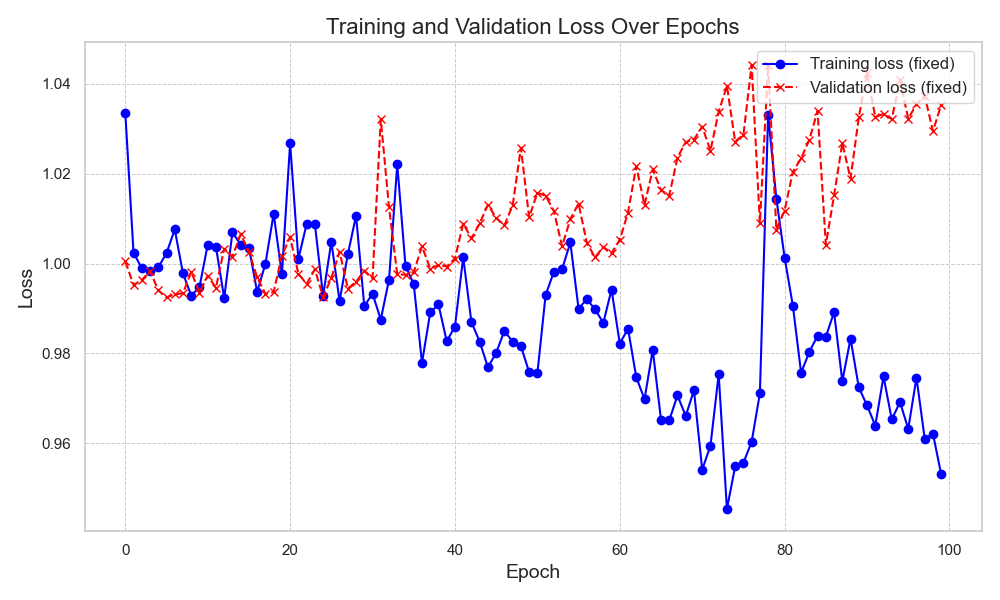
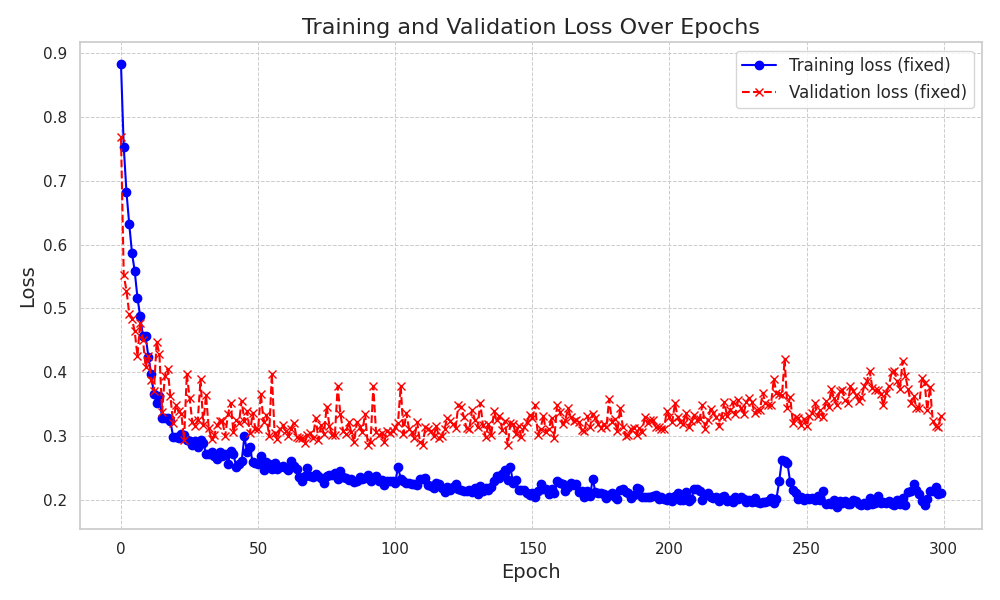
Changes

Changed region(s): [[0.0, 0.06, 0.992, 0.96], [0.279, 0.03, 0.775, 0.09]]

diff --git a/main.py b/main.py
@@ -14,7 +14,7 @@ from utils.test_utils import *
 import argparse
 
 
-def env_train(training_data_path, model_name, epochs, num_features, input_size, hidden_size, LR, batch_size):
+def env_train(training_data_path, model_name, epochs, num_features, input_size, hidden_size, LR, batch_size, save_path):
     with open(training_data_path, 'rb') as pkl_file:
         train_batch_data = pickle.load(pkl_file)
 
@@ -57,24 +57,24 @@ def env_train(training_data_path, model_name, epochs, num_features, input_size, 
 
         train(epochs=epochs, model=model_fixed, model_name=model_name, train_loader=train_loader, val_loader=val_loader,
               loss_func=loss_func,
-              optimizer=optimizer_fixed, device=device, num_features=num_features)
+              optimizer=optimizer_fixed, device=device, num_features=num_features, save_path=save_path)
     elif model_name == 'dw':
         train(epochs=epochs, model=model_dynamic, model_name=model_name, train_loader=train_loader,
               val_loader=val_loader,
               loss_func=loss_func,
-              optimizer=optimizer_dynamic, device=device, num_features=num_features)
+              optimizer=optimizer_dynamic, device=device, num_features=num_features,save_path=save_path)
     else:
         train(epochs=epochs, model=model_dwa, model_name=model_name, train_loader=train_loader,
               val_loader=val_loader,
               loss_func=loss_func,
-              optimizer=optimizer_dwa, device=device, num_features=num_features)
+              optimizer=optimizer_dwa, device=device, num_features=num_features,save_path=save_path)
 
 
 def dqn_train(memory_capacity, TRARGE_REPLACE_INTER, dqn_batch_size,
               n_states, n_actions, dqn_lr, device, epsilon, epsilon_min,
-              epsilon_decay, gamma, save_img_path):
+              epsilon_decay, gamma, save_img_path, epochs):
     # 设置随机种子
-    seed = 15
+    seed = 114
     random.seed(seed)
     np.random.seed(seed)
     torch.manual_seed(seed)
@@ -127,6 +127,7 @@ if __name__ == '__main__':
     model_path = conf.model_path
     training_data_path = conf.training_data_path
     save_test_path = conf.save_test_path
+    save_path = conf.save_path
     # env_train(training_data_path=training_data_path, model_name=model_name, epochs=epochs, num_features=num_features, input_size=input_size, hidden_size=hidden_size, LR=LR, batch_size=batch_size)
 
     # ----------------------------------------------------------------------------------------
@@ -153,11 +154,10 @@ if __name__ == '__main__':
     data_path = conf.data_path
     save_img_path = conf.save_img_path
 
-    simulator = conf.simulator
-
+    simulator_model = conf.simulator_model
 
     # 创建 ArgumentParser 对象
-    parser = argparse.ArgumentParser(description='这是一个示例程序，用于展示如何接收命令行参数。')
+    parser = argparse.ArgumentParser(description='接收命令行参数。')
 
     # 添加参数
     parser.add_argument('--w', type=str, help='输入训练类型', default='env')
@@ -167,6 +167,7 @@ if __name__ == '__main__':
     # 解析命令行参数
     args = parser.parse_args()
     model_name = args.m
+    model_path = f'{save_path}/{model_name}_best.pth'
 
     if args.w == "env":
         if args.t == "train":
@@ -174,16 +175,17 @@ if __name__ == '__main__':
             print('-------------------------------------------------------------------------------------')
             env_train(training_data_path=training_data_path, model_name=model_name, epochs=epochs,
                       num_features=num_features, input_size=input_size, hidden_size=hidden_size,
-                      LR=LR, batch_size=batch_size)
+                      LR=LR, batch_size=batch_size, save_path=save_path)
         else:
             print('开始测试环境模拟器')
             test_model(test_data_path=test_data_path, model_path=model_path, num_features=num_features,
                        save_test_path=save_test_path)
     else:
         print('开始训练DQN')
+        simulator = torch.load(simulator_model, map_location=torch.device('cpu'))
         dqn_train(memory_capacity=memory_capacity, TRARGE_REPLACE_INTER=TRARGE_REPLACE_INTER,
                   dqn_batch_size=dqn_batch_size, n_states=n_states, n_actions=n_actions,
-                  dqn_lr=dqn_lr, device=device, epsilon=epsilon, epsilon_min=epsilon_min,
-                  epsilon_decay=epsilon_decay, gamma=gamma, save_img_path=save_img_path)
+                  epochs=dqn_epochs,dqn_lr=dqn_lr, device=device, epsilon=epsilon, 
+                  epsilon_min=epsilon_min,epsilon_decay=epsilon_decay, gamma=gamma, save_img_path=save_img_path)
 
 

diff --git a/utils/train_utils.py b/utils/train_utils.py
@@ -7,13 +7,13 @@ from datetime import datetime
 from utils.mkdir_utils import *
 
 
-def train(epochs, model, train_loader, val_loader, loss_func, optimizer, model_name, num_features, device):
+
+def train(epochs, model, train_loader, val_loader, loss_func, optimizer, model_name, num_features, device, save_path):
     model.to(device)
     train_loss_record = []
     val_loss_record = []
     h_state = None
     best_val_loss = float('inf')
-
     for epoch in range(epochs):
         model.train()
         epoch_loss = 0
@@ -83,10 +83,8 @@ def train(epochs, model, train_loader, val_loader, loss_func, optimizer, model_n
 
         if val_epoch_loss < best_val_loss:
             best_val_loss = val_epoch_loss
-            torch.save(model, f'result/models/{model_name}_best.pth')
+            torch.save(model, f'{save_path}/{model_name}_best.pth')
             print(f"Saved best {model_name} model with validation loss: {best_val_loss}")
-
-    torch.save(model, f'result/models/{model_name}_{epochs}.pth')
 
     plot(train_loss_record, val_loss_record, model_name)
 
@@ -106,7 +104,7 @@ def plot(train_loss_record, val_loss_record, model_name):
     plt.grid(True, which='both', linestyle='--', linewidth=0.7)  # 添加网格线
     plt.tight_layout()  # 自动调整子图参数，使之填充整个图像区域
 
-    plt.savefig(f'./result/img/loss_{model_name}.png')
+    plt.savefig(f'./result/img/loss_{model_name}_{get_time()}.png')
     plt.show()
     print('保存成功')
 
@@ -114,7 +112,7 @@ def plot(train_loss_record, val_loss_record, model_name):
 def load_and_preprocess_data(data_path, num_features):
     data = pd.read_csv(data_path)
     # init = data.groupby("顾客ID").first().reset_index()
-    init = data.groupby("编号").first().reset_index()
+    init = data.groupby("ID").first().reset_index()
     data_array = data.values
     data_mean = data_array.mean(axis=0)
     data_std = data_array.std(axis=0)
@@ -174,7 +172,7 @@ def train_model(dqn, simulator, init_bundle, action_mean, action_std, reward_mea
 
             s = s_
 
-        ave_ep_score = ep_score.mean().item() / 10
+        ave_ep_score = ep_score.mean().item() / 30
         print(i_episode, ave_ep_score, np.mean(ep_actions))
         score.append(ave_ep_score)
         mean_actions.append(np.mean(ep_actions))
@@ -208,7 +206,7 @@ def plot_dqn(score, mean_actions,  strategy, save_img_path):
     plt.xlabel('Epoch')
     plt.ylabel('Average Score')
     plt.legend()
-    plt.savefig(f'{save_img_path}/loss.png')
+    plt.savefig(f'{save_img_path}/loss_{get_time()}.png')
     plt.show()
 
     plt.figure(figsize=(12, 5))
@@ -225,7 +223,7 @@ def plot_dqn(score, mean_actions,  strategy, save_img_path):
     plt.title('Mean Action Over Episodes')
 
     plt.tight_layout()
-    plt.savefig(f'{save_img_path}/{strategy}_loss_and_action.png')
+    plt.savefig(f'{save_img_path}/{strategy}_loss_and_action_{get_time()}.png')
     plt.show()
 
 
@@ -259,7 +257,7 @@ def record_behavior(dqn, init_bundle, action_mean, action_std, device, simulator
     plt.ylabel('Action')
     plt.title('Behavior Strategy of 3 Consumers Over 30 Days')
     plt.legend()
-    plt.savefig(f'result/img/3.png')
+    plt.savefig(f'result/img/3_{get_time()}.png')
     plt.show()
 
 

diff --git a/config.py b/config.py
@@ -1,23 +1,34 @@
 import torch
+from utils.mkdir_utils import *
 
+def get_now():
+    # 获取当前日期
+    today = datetime.today()
+    
+    # 格式化为“年-月-日”格式
+    formatted_date = today.strftime("%Y-%m-%d")
+    return formatted_date
 
 class Config:
     # 输入特征数 包含action
-    input_size = 10
+    input_size = 12
     LR = 0.005
     batch_size = 64
     hidden_size = 50
-    epochs = 100
-    training_data_path = "./data/train_year_731.pkl"
-    save_path = "./result/models/year_731"
-    save_test_path = "./result/img/test/year_731"
+    epochs = 300
+    training_data_path = "./data/train_year_814.pkl"
+    
+    save_path = mkdir("./result/models")
+    
+    save_test_path = "./result/img/test/year_814"
     device = torch.device("cuda" if torch.cuda.is_available() else "cpu")
-    model_name = 'fixed'
+    model_name = 'dwa'
     # 状态数
-    num_features = 9
+    num_features = 11
     # 测试参数
-    test_data_path = './data/test_year_731.pkl'
-    model_path = './result/models/fixed_best.pth'
+    test_data_path = './data/test_year_814.pkl'
+    
+    model_path = f'{save_path}/{model_name}_best.pth'
 
     # --------------------------------------------------------------------------------------
     # dqn参数
@@ -26,28 +37,28 @@ class Config:
     epsilon_decay = 0.99
     gamma = 0.99
     dqn_lr = 0.01
-    n_states = 8
-    n_actions = 4
+    n_states = 11
+    n_actions = 5
     TRARGE_REPLACE_INTER = 10
-    memory_capacity = 5000
-    dqn_epochs = 2000
-    sampling_size = 10
-    episode_length = 10
-    dqn_batch_size = 100
+    memory_capacity = 14000
+    dqn_epochs = 3000
+    sampling_size = 30
+    episode_length = 24
+    dqn_batch_size = 300
     # strategy
     strategy_list = ["ucb", "boltzmann", "entropy", "noise", "epsilon"]
     strategy = strategy_list[4]
 
     # 消费行为模拟器
-    simulator_model = f"./result/models/fixed_best.pth"
+    simulator_model = model_path
 
     # 结果图保存
     save_img_path = f"./result/img/train_dqn"
 
     # 数据地址
-    data_path = f"./data/DQN_data_new_723.csv"
+    data_path = f"./data/DQN_data_year_814.csv"
 
     # 加载模拟器
-    simulator = torch.load(simulator_model, map_location=torch.device('cpu'))
+    # simulator = torch.load(simulator_model, map_location=torch.device('cpu'))
 
 

diff --git a/models/DuelingNet.py b/models/DuelingNet.py
@@ -29,20 +29,20 @@ class DuelingNet(nn.Module):
         super(DuelingNet, self).__init__()
 
         self.shared_layers = nn.Sequential(
-            nn.Linear(n_states, 300),
+            nn.Linear(n_states, 200),
             nn.ReLU()
         )
 
         self.attention = Attention(300)
 
         self.advantage = nn.Sequential(
-            nn.Linear(300, 128),
+            nn.Linear(200, 128),
             nn.ReLU(),
             nn.Linear(128, n_actions)
         )
 
         self.value = nn.Sequential(
-            nn.Linear(300, 128),
+            nn.Linear(200, 128),
             nn.ReLU(),
             nn.Linear(128, 1)
         )

diff --git a/utils/mkdir_utils.py b/utils/mkdir_utils.py
@@ -18,3 +18,11 @@ def mkdir(save_path):
         print(f'文件夹 "{folder_path}" 已存在。')
 
     return folder_path
+    
+def get_time():
+    # 获取当前时间
+    now = datetime.now()
+    
+    # 格式化为“月-日-时间”格式
+    formatted_time = now.strftime("%m-%d-%H:%M:%S")
+    return formatted_time
